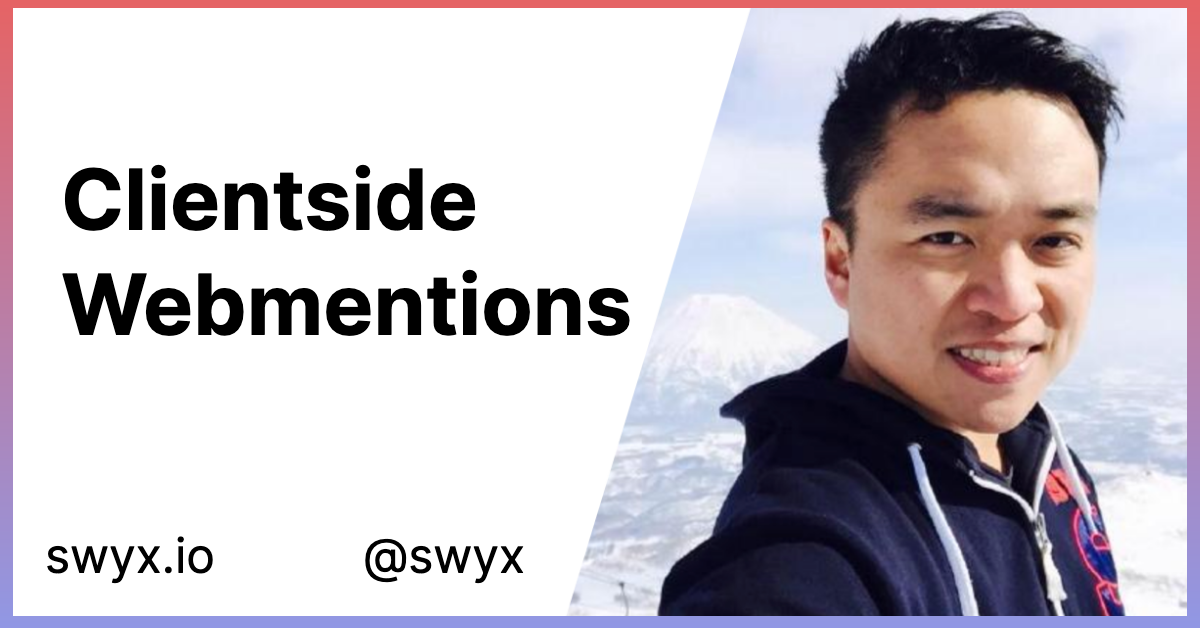
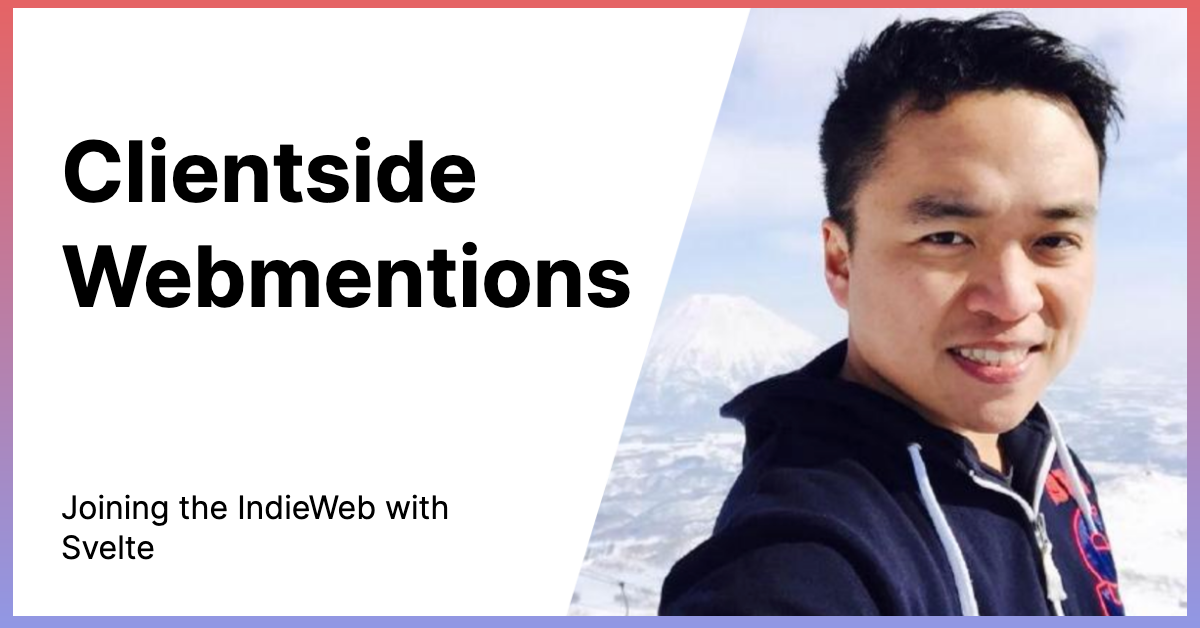
mention svelte

Changed region(s): [[0.0308, 0.2118, 0.5242, 0.5446], [0.0308, 0.7866, 0.4317, 0.9379]]

diff --git a/content/writing/technical/webmentions-clientside.md b/content/writing/technical/webmentions-clientside.md
@@ -1,7 +1,8 @@
 ---
 title: Clientside Webmentions
 slug: clientside-webmentions
-categories: ['IndieWeb']
+subtitle: Joining the IndieWeb with Svelte
+categories: ['IndieWeb', 'Svelte']
 date: 2020-02-11
 description: How you can enhance your blog with webmentions without adding heavy build times.
 ---
